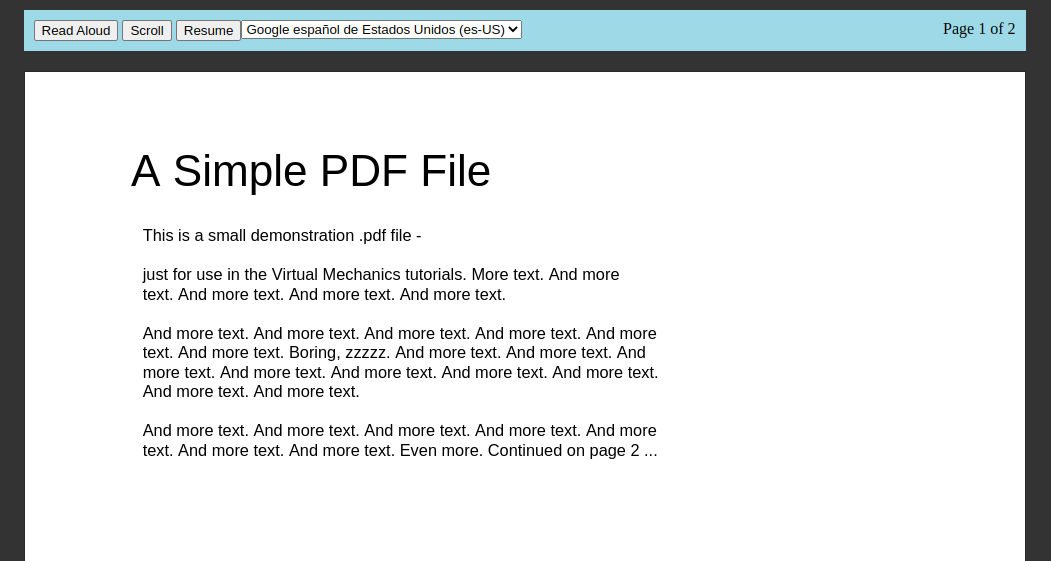
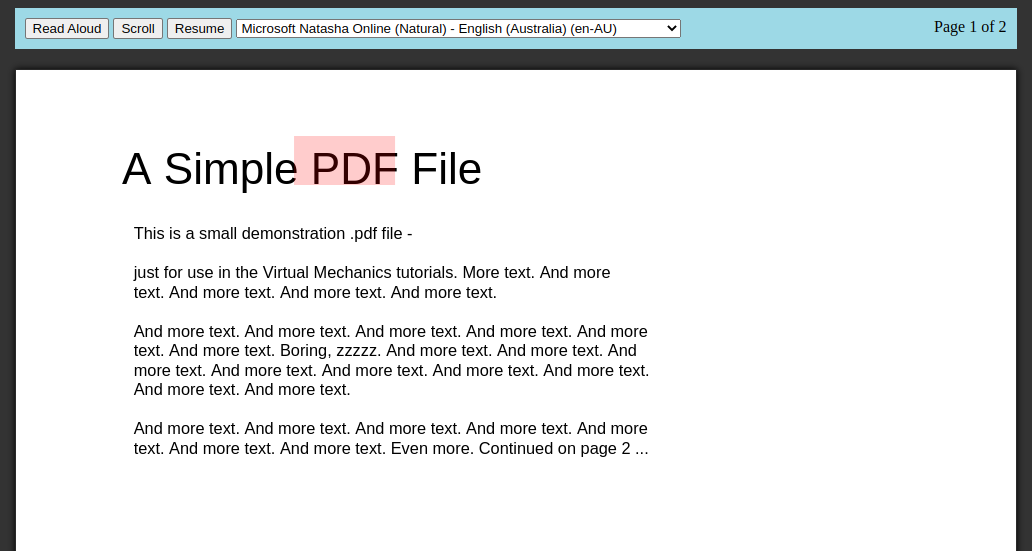
Highlighting word when word is spoken

diff --git a/pdfScript.js b/pdfScript.js
@@ -4,13 +4,8 @@ let __PDF_DOC,
 	__CURRENT_PAGE = 1,
 	__TOTAL_PAGES,
 	__PAGE_RENDERING_IN_PROGRESS = 0;
-
 let canvas_width = 1000;
 
-function scroll() {
-	document.getElementById("textLayer" + __CURRENT_PAGE).scrollIntoView();
-	console.log(document.getElementById("textLayer" + __CURRENT_PAGE));
-}
 function populateVoiceList() {
 	if (typeof synth === "undefined") {
 		return;
@@ -19,18 +14,21 @@ function populateVoiceList() {
 	const voices = synth.getVoices();
 
 	for (const element of voices) {
-		const option = document.createElement("option");
-		option.textContent = `${element.name} (${element.lang})`;
+		if (element.lang.substring(0, 2) === "en") {
+			const option = document.createElement("option");
+			option.textContent = `${element.name} (${element.lang})`;
 
-		if (element.default) {
-			option.textContent += " — DEFAULT";
+			if (element.default) {
+				option.textContent += " — DEFAULT";
+			}
+
+			option.setAttribute("data-lang", element.lang);
+			option.setAttribute("data-name", element.name);
+			document.getElementById("voiceSelect").appendChild(option);
 		}
-
-		option.setAttribute("data-lang", element.lang);
-		option.setAttribute("data-name", element.name);
-		document.getElementById("voiceSelect").appendChild(option);
 	}
 }
+
 if (typeof synth !== "undefined" && synth.onvoiceschanged !== undefined) {
 	synth.onvoiceschanged = populateVoiceList;
 }
@@ -40,8 +38,9 @@ function startTextToSpeech(startWord, viewport) {
 	}
 	let voices = synth.getVoices();
 
-	let selectedVoice =
-		voices[document.getElementById("voiceSelect").selectedIndex];
+	let selectedVoice = voices.filter(
+		(element) => element.lang.substring(0, 2) === "en"
+	)[document.getElementById("voiceSelect").selectedIndex];
 	if (selectedVoice !== null) {
 		utterance.voice = selectedVoice;
 	}
@@ -63,9 +62,24 @@ function startTextToSpeech(startWord, viewport) {
 			} else {
 				utterance.text = refineText(textContent);
 			}
+			utterance.onerror = (error) => console.log(error);
+			utterance.onpause = () => console.log("Paused");
+			utterance.onmark = () => console.log("On Mark");
+			utterance.onboundary = (event) => {
+				// console.log(event);
+				highlightWord();
+			};
+
 			utterance.onend = function () {
+				console.log("Ended");
 				if (__CURRENT_PAGE != __TOTAL_PAGES) {
+					document
+						.getElementById("word-" + __CURRENT_PAGE + "-" + prevId)
+						.classList.remove("highlight");
+
 					__CURRENT_PAGE++;
+					prevId = 0;
+
 					startTextToSpeech();
 					scroll();
 				}
@@ -78,7 +92,6 @@ function startTextToSpeech(startWord, viewport) {
 			console.log(error);
 		});
 }
-
 function showPDF(pdf_url) {
 	$("#pdf-loader").show();
 
@@ -106,35 +119,75 @@ function showPDF(pdf_url) {
 
 				showPage(i, canvas, canvas.getContext("2d"));
 				// Add click event listeners to each word in the text layer
-				$("#textLayer" + i).on("click", "div", function () {
+				$("#textLayer" + i).on("click", "span", function () {
 					// Get the clicked word's text content
+					if (prevId !== 0) {
+						document
+							.getElementById("word-" + __CURRENT_PAGE + "-" + prevId)
+							.classList.remove("highlight");
+					}
 					__CURRENT_PAGE = i;
+					prevId = parseInt($(this).attr("id").split("-")[2]) - 1;
 					const clickedWord = $(this).text().trim();
+
+					// console.log("clicked", $(this));
 					// Get the text content of the rest of the page
-					const nextPageWords = $(this)
-						.nextAll("div")
-						.map(function () {
-							return $(this).text().trim();
-						})
-						.get()
-						.join(" ");
+					const nextPageWords =
+						$(this)
+							.nextAll("span")
+							.map(function () {
+								return $(this).text().trim();
+							})
+							.get()
+							.join(" ") +
+						" " +
+						$(this)
+							.parent()
+							.nextAll("div")
+							.map(function () {
+								return $(this).text().trim();
+							})
+							.get()
+							.join(" ");
 					// Set the text to the utterance
 					if (synth.speaking) {
 						synth.cancel();
 					}
 					let voices = synth.getVoices();
 
-					let selectedVoice =
-						voices[document.getElementById("voiceSelect").selectedIndex];
+					let selectedVoice = voices.filter(
+						(element) => element.lang.substring(0, 2) === "en"
+					)[document.getElementById("voiceSelect").selectedIndex];
 					if (selectedVoice !== null) {
 						utterance.voice = selectedVoice;
 					}
+					utterance.onerror = (error) => console.log(error);
+					utterance.onpause = () => console.log("Paused");
+					utterance.onmark = () => console.log("On Mark");
+					utterance.onboundary = (event) => {
+						// console.log(event);
 
+						highlightWord();
+						// console.log(
+						// 	event.utterance.text.substring(
+						// 		event.charIndex,
+						// 		event.charIndex + event.charLength
+						// 	)
+						// );
+					};
+					// utterance.lang = "en-US";
 					utterance.text = refineText(clickedWord + " " + nextPageWords);
 					// Start the text-to-speech feature
 					utterance.onend = function () {
+						console.log("Ended");
 						if (__CURRENT_PAGE != __TOTAL_PAGES) {
+							document
+								.getElementById("word-" + __CURRENT_PAGE + "-" + prevId)
+								.classList.remove("highlight");
+
 							__CURRENT_PAGE++;
+							prevId = 0;
+
 							startTextToSpeech();
 							scroll();
 						}
@@ -152,6 +205,15 @@ function showPDF(pdf_url) {
 			alert(error.message);
 		});
 }
+let prevId = 0;
+function highlightWord() {
+	let wordId = "word-" + __CURRENT_PAGE + "-";
+	if (document.getElementById(wordId + prevId) !== null)
+		document.getElementById(wordId + prevId).classList.remove("highlight");
+	if (document.getElementById(wordId + ++prevId) !== null)
+		document.getElementById(wordId + prevId).classList.add("highlight");
+	else console.log("Null id", prevId);
+}
 
 function showPage(page_no, newCanvas, newCtx) {
 	__PAGE_RENDERING_IN_PROGRESS = 1;
@@ -162,9 +224,6 @@ function showPage(page_no, newCanvas, newCtx) {
 	// While page is being rendered hide the canvas and show a loading message
 	$("#pdf-canvas").hide();
 	$("#page-loader").show();
-
-	// Update current page in HTML
-	// $("#pdf-current-page").text(page_no);
 
 	// Fetch the page
 	__PDF_DOC.getPage(page_no).then(function (page) {
@@ -184,8 +243,6 @@ function showPage(page_no, newCanvas, newCtx) {
 		page
 			.render(renderContext)
 			.then(function () {
-				__PAGE_RENDERING_IN_PROGRESS = 0;
-
 				// Re-enable Prev & Next buttons
 				$("#pdf-next, #pdf-prev").removeAttr("disabled");
 
@@ -208,7 +265,6 @@ function showPage(page_no, newCanvas, newCtx) {
 					width: newCanvas.width + "px",
 				});
 				// Pass the data to the method for rendering of text over the pdf canvas.
-				// console.log($("#text-layer").get(1));
 				PDFJS.renderTextLayer({
 					textContent: textContent,
 					container: $(`#textLayer${page_no}`).get(0),
@@ -217,6 +273,20 @@ function showPage(page_no, newCanvas, newCtx) {
 				});
 			})
 			.then(function () {
+				let allDivs = document.querySelectorAll(`#textLayer${page_no} > div`);
+				let sum = 1;
+				for (const element of allDivs) {
+					const words = element.innerText.split(" ");
+					let newSentence = "";
+					for (const word of words) {
+						if (word.length !== 0 && word.trim()[0] !== "-") {
+							const wordId = `word-${page_no}-${sum++}`;
+							newSentence += `<span id="${wordId}">${word.trim()} </span>`;
+						}
+					}
+					element.innerHTML = newSentence;
+				}
+
 				const currentPageElement = document.getElementById("pdf-current-page");
 				const pageHeight = parseInt(
 					$("#page1")
@@ -228,6 +298,7 @@ function showPage(page_no, newCanvas, newCtx) {
 					const currentPage = Math.floor(scrollTop / pageHeight) + 1;
 					currentPageElement.textContent = currentPage;
 				});
+				__PAGE_RENDERING_IN_PROGRESS = 0;
 			});
 	});
 }
@@ -273,6 +344,13 @@ window.onbeforeunload = function () {
 };
 
 function refineText(text) {
-	let newText = text.replace(/\x00/g, "");
+	let newText = text.replace(/\x00/g, "").replace(/\s+/g, " ").trim();
 	return newText;
+}
+
+$("#scroll").on("click", function () {
+	scroll();
+});
+function scroll() {
+	document.getElementById("page" + __CURRENT_PAGE).scrollIntoView();
 }

diff --git a/pdf.html b/pdf.html
@@ -34,11 +34,14 @@
 					id="pdf-meta"
 					class="navBar"
 				>
-					<select id="voiceSelect"></select>
-
 					<div id="pdf-buttons">
 						<button onclick="startTextToSpeech()">Read Aloud</button>
-						<button onclick="scroll()">Scroll</button>
+						<button
+							id="scroll"
+							onclick="scroll()"
+						>
+							Scroll
+						</button>
 						<button
 							id="resume-button"
 							onclick="resume()"
@@ -51,7 +54,9 @@
 						>
 							Pause
 						</button>
+						<select id="voiceSelect"></select>
 					</div>
+
 					<div id="page-count-container">
 						Page
 						<div id="pdf-current-page">1</div>

diff --git a/pdf.css b/pdf.css
@@ -16,8 +16,6 @@
 	display: flex;
 	flex-direction: column;
 	gap: 30px;
-	height: 1200;
-	overflow: auto;
 }
 #pdf-loader {
 	display: none;
@@ -117,7 +115,7 @@
 	cursor: text;
 	transform-origin: 0% 0%;
 }
-.textLayer > div:hover {
+.textLayer > div > span:hover {
 	background-color: blue;
 	color: transparent;
 	position: absolute;
@@ -136,6 +134,8 @@
 	background-color: lightblue;
 	z-index: 1;
 	padding: 10px 10px;
+	display: flex;
+	justify-content: space-between;
 }
 body {
 	background-color: lightcyan;

diff --git a/readme.md b/readme.md
@@ -1,10 +1,12 @@
 # Book Reader
 
-![Demo Image](Demo.jpeg)
+![Demo Image](Demo.png)
 
 Main feature of this reader is to use read aloud feature for free.
 
 Right now only pdf format is supported.
+
+### Works on Edge Browser only
 
 ## How to Use?
 
@@ -14,13 +16,14 @@ Right now only pdf format is supported.
 
 ## Todo:
 
-1. Skip Header/footers,vertical text,text in brackets
-2. Highlight word/sentence which is being spoken
-3. Make responsive
-4. Add Resize Page Buttons
-5. Create Extension
-6. Create Mobile App
-7. ??
+- [ ] Add Resize Page Buttons
+- [ ] Skip Header/footers,vertical text,text in brackets
+- [ ] Make responsive
+- [ ] Create Extension
+- [ ] Create Mobile App
+- [ ] Make links clickable
+- [ ] Try base64
+- [ ] Use Canvas.before insert method to add textlayer
 
 ## Contribute to development
 
